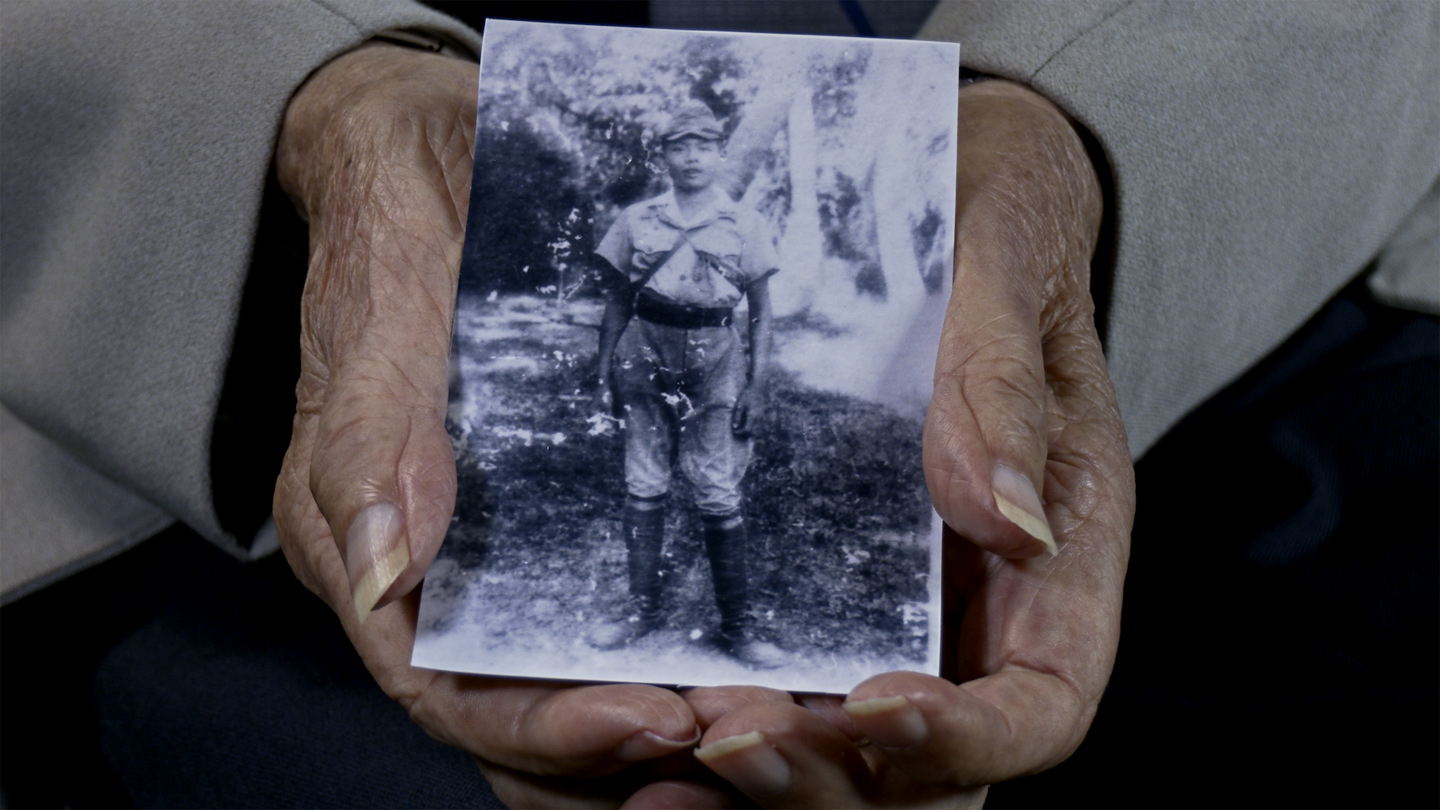
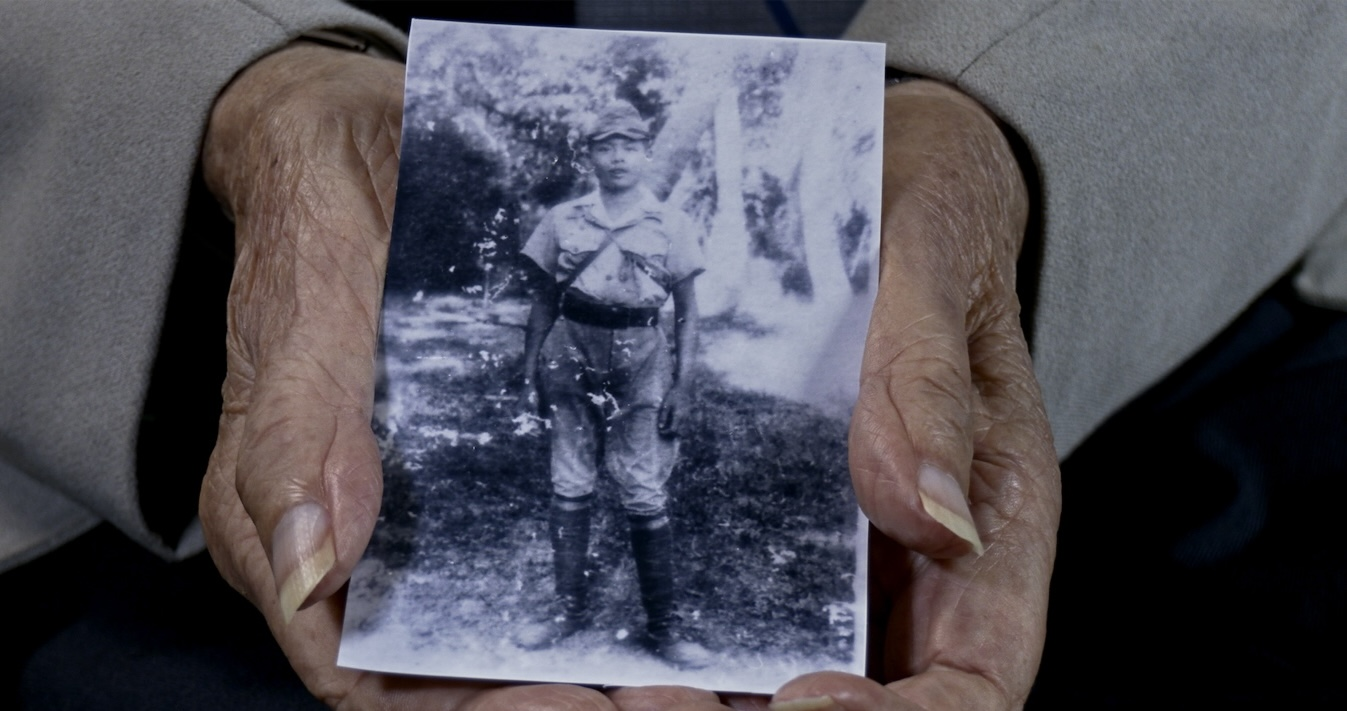
✨ [feat] animation

diff --git a/pages/film/index.vue b/pages/film/index.vue
@@ -11,15 +11,25 @@
   }
 
   onMounted(() => {
-    gsap.to('#parallax-content', {
-      y: '15%',
-      ease: 'none',
-      scrollTrigger: {
-        trigger: '#parallax-container',
-        start: 'top bottom',
-        end: 'bottom top',
-        scrub: 1,
-      },
+    const parallaxElements = document.querySelectorAll('#parallax-content')
+
+    parallaxElements.forEach(element => {
+      // Set initial position
+      gsap.set(element, {
+        y: '-30%', // Start higher up to allow room for movement
+      })
+
+      // Create the parallax effect
+      gsap.to(element, {
+        y: '0%', // Move down to show bottom portion
+        ease: 'none',
+        scrollTrigger: {
+          trigger: element.parentElement,
+          start: 'top bottom',
+          end: 'bottom 25%',
+          scrub: 1,
+        },
+      })
     })
   })
 </script>
@@ -80,7 +90,7 @@
               src="/images/stills/still_1.jpg"
               alt="still1"
               id="parallax-content"
-              class="absolute left-0 w-[120%] h-[120%]"
+              class="absolute left-0 top-0 max-w-[120%] h-[120%] object-cover object-top"
             />
           </div>
           <div class="flex items-center w-[443px] justify-center mt-[665px]">
@@ -97,7 +107,7 @@
               src="/images/director.jpg"
               alt="director"
               id="parallax-content"
-              class="absoluto left-0 w-full h-full"
+              class="max-w-[100%] h-[120%] object-cover object-center"
             />
           </div>
           <div class="flex items-center w-[443px] justify-center mt-[423px]">
@@ -106,11 +116,17 @@
               <p class="font-wix text-white tracking-[2px] mt-1">Director's Quotes</p>
             </div>
           </div>
-          <img
-            src="/images/stills/lesson_2.jpg"
-            alt="lesson2"
-            class="w-[443px] h-[249px] mt-[368px]"
-          />
+          <div
+            id="parallax-container"
+            class="relative overflow-hidden w-[443px] h-[249px] mt-[318px]"
+          >
+            <img
+              src="/images/stills/lesson_2.jpg"
+              alt="lesson2"
+              id="parallax-content"
+              class="absolute max-w-[150%] h-[130%] oboject-cover object-top"
+            />
+          </div>
         </div>
         <div class="flex flex-col mr-[182px] items-center">
           <div class="flex gap-x-5">
@@ -130,13 +146,13 @@
           </p>
           <div
             id="parallax-container"
-            class="relative overflow-hidden w-[710px] h-[400px] flex items-center mt-[42px]"
+            class="relative overflow-hidden w-[710px] h-[350px] flex items-center mt-[42px]"
           >
             <img
               src="/images/stills/still_4.jpg"
               alt="still4"
               id="parallax-content"
-              class="w-[120%] h-[120%]"
+              class="max-w-[150%] h-[130%] object-cover object-center"
             />
           </div>
           <p class="font-noto text-white tracking-[2px] leading-[36px] mt-[191px] w-[710px]">
@@ -156,11 +172,17 @@
             International Film Festival, selected for the 38th Clermont-Ferrand International Short
             Film Festival.
           </p>
-          <img
-            src="/images/stills/lesson_5.jpg"
-            alt="lesson5"
-            class="w-[710px] h-[400px] mt-[100px]"
-          />
+          <div
+            id="parallax-container"
+            class="relative overflow-hidden w-[710px] h-[400px] flex items-center mt-[100px]"
+          >
+            <img
+              src="/images/stills/lesson_5.jpg"
+              alt="lesson5"
+              id="parallax-content"
+              class="max-w-[120%] h-[120%]"
+            />
+          </div>
           <p
             class="font-noto text-white tracking-[2px] leading-[36px] mt-[178px] w-[710px] text-justify"
           >
@@ -185,8 +207,13 @@
           </div>
         </div>
       </div>
-      <div class="w-full">
-        <img src="/images/stills/lesson_4.jpg" alt="lesson4" class="w-full" />
+      <div id="parallax-container" class="relative w-full aspect-[1440/810] overflow-hidden">
+        <img
+          src="/images/stills/lesson_4.jpg"
+          alt="lesson4"
+          id="parallax-content"
+          class="max-w-[120%] h-[120%]"
+        />
       </div>
       <div class="flex gap-x-[105px] mt-[73px] w-full justify-between">
         <div class="flex flex-col">
@@ -197,11 +224,17 @@
               <p class="font-wix text-white tracking-[2px] mt-1">historical consultant</p>
             </div>
           </div>
-          <img
-            src="/images/historical.png"
-            alt="historical"
-            class="w-[443px] h-[502px] mt-[246px]"
-          />
+          <div
+            id="parallax-container"
+            class="relative overflow-hidden w-[443px] h-[502px] flex items-center mt-[246px]"
+          >
+            <img
+              src="/images/historical.png"
+              alt="historical"
+              id="parallax-content"
+              class="max-w-[120%] h-[120%]"
+            />
+          </div>
         </div>
         <div class="flex flex-col mr-[182px] items-center">
           <p
@@ -237,8 +270,13 @@
           </p>
         </div>
       </div>
-      <div class="w-full mt-[118px]">
-        <img src="/images/stills/still_12.jpg" alt="still12" class="w-full" />
+      <div id="parallax-container" class="w-full aspect-[1440/810] overflow-hidden mt-[118px]">
+        <img
+          src="/images/stills/still_12.jpg"
+          alt="still12"
+          id="parallax-content"
+          class="max-w-[100%] h-[120%] object-cover object-center"
+        />
       </div>
       <div class="flex gap-x-[105px] mt-[73px] w-full justify-between">
         <div class="flex flex-col">
@@ -257,7 +295,7 @@
               src="/images/stills/still_1.jpg"
               alt="still1"
               id="parallax-content"
-              class="absolute left-0 w-[120%] h-[120%]"
+              class="absolute left-0 max-w-[100%] h-[150%] object-cover object-center"
             />
           </div>
           <div class="flex items-center w-[443px] justify-center mt-[748px]">
@@ -275,7 +313,7 @@
               src="/images/stills/lesson_3.jpg"
               alt="lesson3"
               id="parallax-content"
-              class="absolute left-0 w-[120%] h-[120%]"
+              class="max-w-[100%] h-[150%] object-cover object-center"
             />
           </div>
           <div
@@ -286,7 +324,7 @@
               src="/images/stills/still_13.jpg"
               alt="still13"
               id="parallax-content"
-              class="absolute left-0 w-[120%] h-[120%]"
+              class="max-w-[100%] h-[150%] object-cover object-center"
             />
           </div>
         </div>
@@ -331,11 +369,17 @@
               <p class="font-noto text-white tracking-[2px]">洪煒茜 HONG Wei-Qian</p>
             </div>
           </div>
-          <img
-            src="/images/stills/still_7.jpg"
-            alt="still7"
-            class="w-[710px] h-[400px] mt-[100px]"
-          />
+          <div
+            id="parallax-container"
+            class="relative overflow-hidden w-[710px] h-[400px] flex items-center mt-[100px]"
+          >
+            <img
+              src="/images/stills/still_7.jpg"
+              alt="still7"
+              id="parallax-content"
+              class="w-[710px] h-[400px] mt-[100px]"
+            />
+          </div>
           <div
             class="flex flex-col w-[716px] gap-y-2 mt-[120px] text-[14.5px] tracking-[0.5px] font-noto text-white"
           >
@@ -418,8 +462,13 @@
           </div>
         </div>
       </div>
-      <div class="w-full mt-[138px]">
-        <img src="/images/stills/still_15.jpg" alt="still15" class="w-full" />
+      <div id="parallax-container" class="w-full aspect-[1440/810] overflow-hidden mt-[138px]">
+        <img
+          src="/images/stills/still_15.jpg"
+          alt="still15"
+          id="parallax-content"
+          class="max-w-[100%] h-[120%] object-cover object-center"
+        />
       </div>
       <div class="w-full max-w-[1440px] h-[146px] flex px-20 items-center justify-between">
         <div class="flex gap-x-[77px]">

diff --git a/pages/parallax-demo.vue b/pages/parallax-demo.vue
@@ -1,0 +1,74 @@
+<script setup>
+  const { $gsap: gsap, $ScrollTrigger: ScrollTrigger } = useNuxtApp()
+
+  onMounted(() => {
+    // Initialize parallax effect for all parallax content
+    const parallaxElements = document.querySelectorAll('.parallax-content')
+
+    parallaxElements.forEach(element => {
+      gsap.to(element, {
+        y: '20%', // Control how far the image moves
+        ease: 'none',
+        scrollTrigger: {
+          trigger: element.parentElement, // Use the container as trigger
+          start: 'top bottom', // Start when container's top hits viewport's bottom
+          end: 'bottom top', // End when container's bottom hits viewport's top
+          scrub: 1, // Smooth scrubbing effect
+        },
+      })
+    })
+  })
+</script>
+
+<template>
+  <div class="min-h-screen bg-black p-8">
+    <!-- Spacer to demonstrate scroll -->
+    <div class="h-[50vh]"></div>
+
+    <!-- First parallax container -->
+    <div class="parallax-container relative overflow-hidden w-[500px] h-[300px] mb-20">
+      <img
+        src="/images/stills/still_1.jpg"
+        alt="Parallax 1"
+        class="parallax-content absolute w-[120%] h-[120%] object-cover"
+      />
+    </div>
+
+    <!-- Second parallax container -->
+    <div class="parallax-container relative overflow-hidden w-[500px] h-[300px] mb-20">
+      <img
+        src="/images/stills/still_4.jpg"
+        alt="Parallax 2"
+        class="parallax-content absolute w-[120%] h-[120%] object-cover"
+      />
+    </div>
+
+    <!-- Third parallax container -->
+    <div class="parallax-container relative overflow-hidden w-[500px] h-[300px] mb-20">
+      <img
+        src="/images/stills/still_7.jpg"
+        alt="Parallax 3"
+        class="parallax-content absolute w-[120%] h-[120%] object-cover"
+      />
+    </div>
+
+    <!-- Spacer to demonstrate scroll -->
+    <div class="h-[50vh]"></div>
+  </div>
+</template>
+
+<style scoped>
+  .parallax-container {
+    /* Add a subtle shadow for depth */
+    box-shadow:
+      0 4px 6px -1px rgb(0 0 0 / 0.1),
+      0 2px 4px -2px rgb(0 0 0 / 0.1);
+  }
+
+  .parallax-content {
+    /* Ensure image covers container */
+    left: 50%;
+    transform: translateX(-50%);
+    object-position: center;
+  }
+</style>
